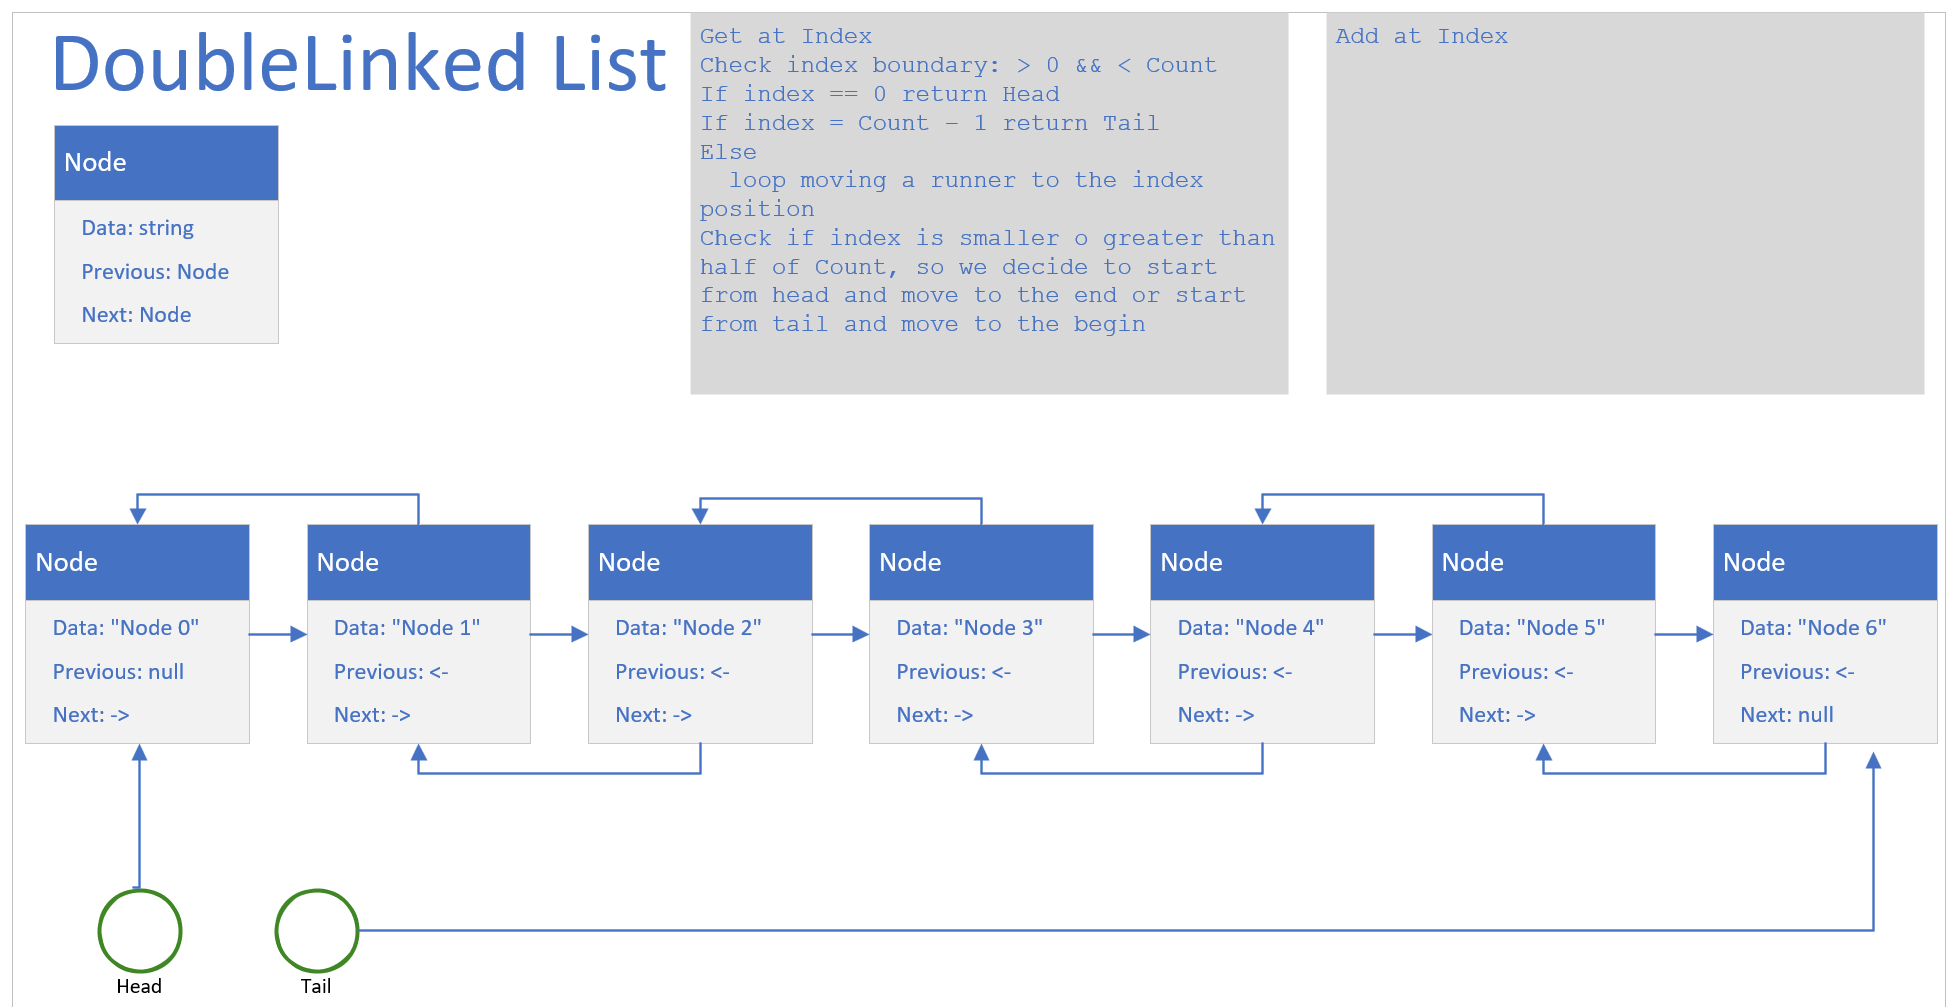
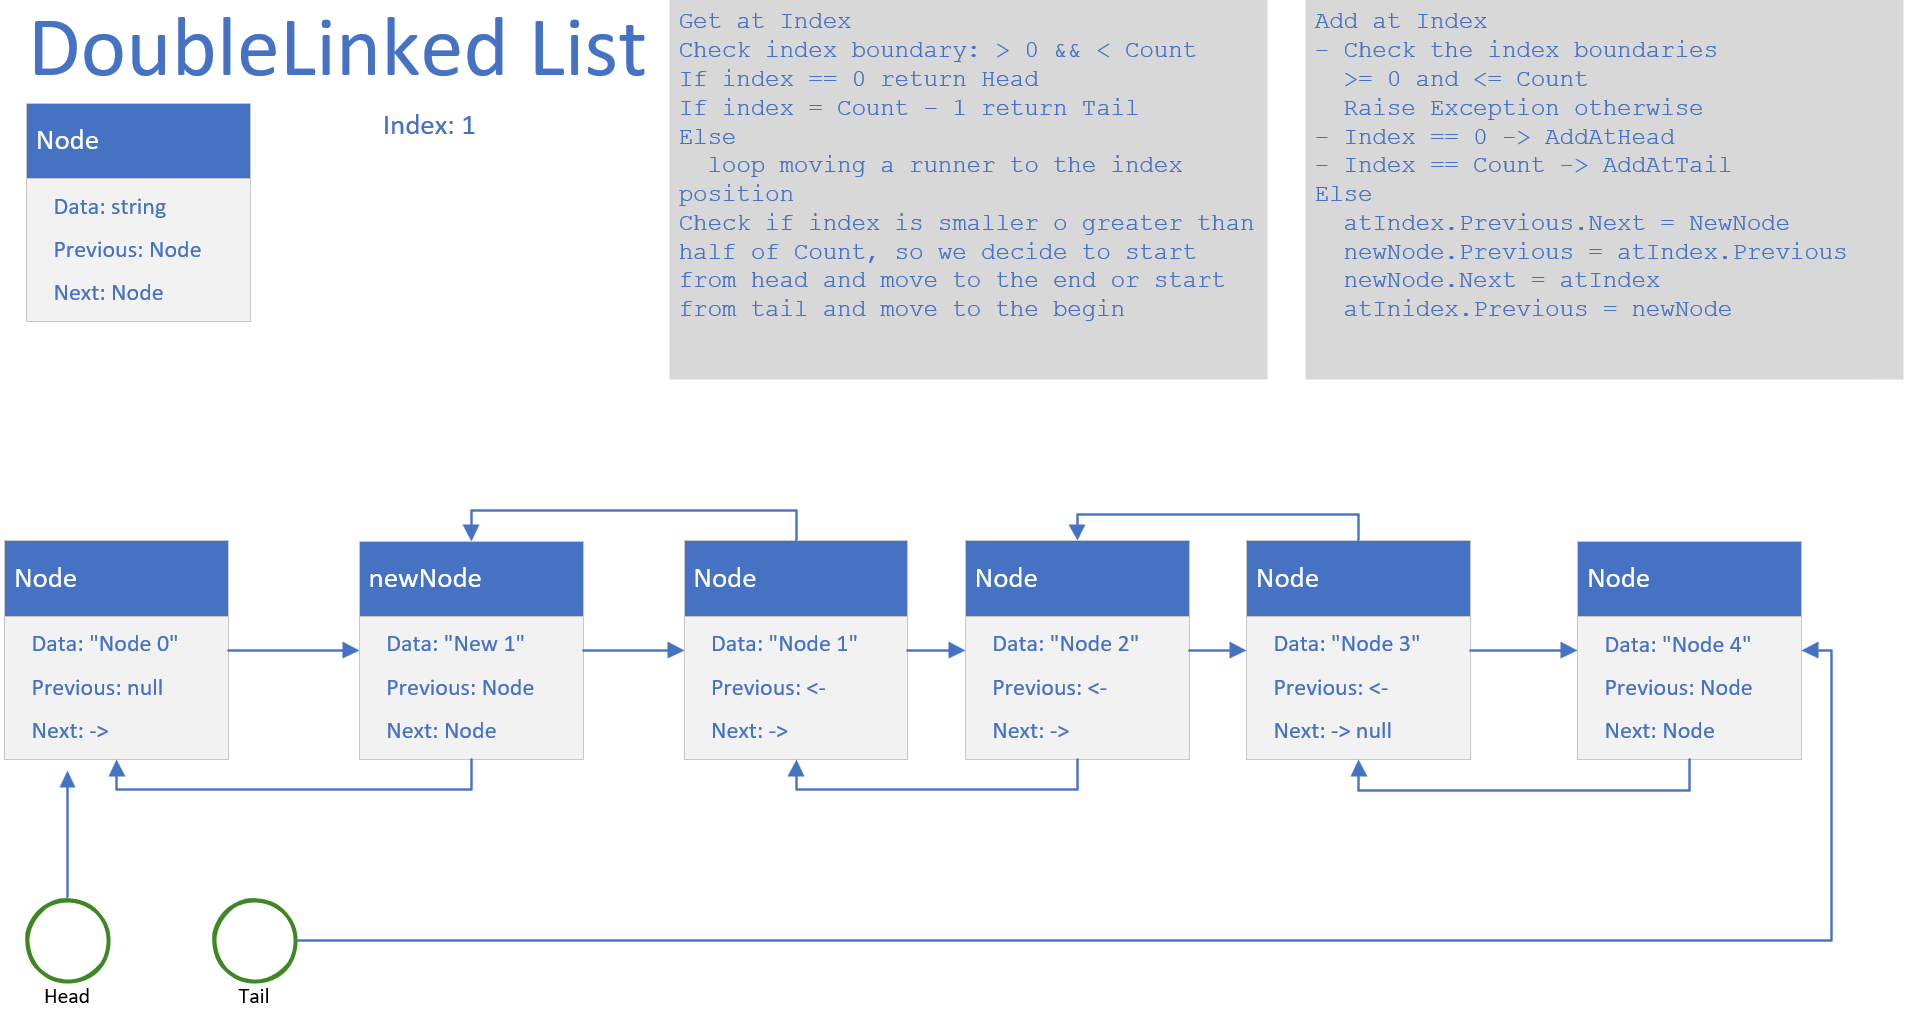
Class #153: Data Structures - Double Linked List (Part 7: Add at Index)

diff --git a/CSharpTest/_06_DoubleLinkedListTest.cs b/CSharpTest/_06_DoubleLinkedListTest.cs
@@ -123,4 +123,54 @@ public class DoubleLinkedListTests
             Assert.That(list.GetAtIndex(i).Data, Is.EqualTo($"Node {i}"));
         }
     }
+
+    [Test]
+    public void GetAtIndexTestCornerCaseWithTwoNodes()
+    {
+        var list = new DoubleLinkedList();
+        list.AddAtTail("A");
+        list.AddAtTail("B");
+        list.AddAtTail("C");
+
+        Assert.That(list.GetAtIndex(0).Data, Is.EqualTo("A"));
+        Assert.That(list.GetAtIndex(1).Data, Is.EqualTo("B"));
+        Assert.That(list.GetAtIndex(2).Data, Is.EqualTo("C"));
+    }
+
+    [Test]
+    public void AdddAtIndexTest()
+    {
+        // 0     1       2      3
+        // A <-> A2 <->  B0 <-> B
+
+        var list = new DoubleLinkedList();
+
+        list.AddAtIndex(0, "B");
+        Assert.That(list.Count, Is.EqualTo(1));
+        Assert.That(list.Head.Data, Is.EqualTo("B"));
+        Assert.That(list.Tail.Data, Is.EqualTo("B"));
+
+        list.AddAtIndex(0, "A");
+        Assert.That(list.Count, Is.EqualTo(2));
+        Assert.That(list.Head.Data, Is.EqualTo("A"));
+        Assert.That(list.Tail.Data, Is.EqualTo("B"));
+        Assert.That(list.Head.Next, Is.EqualTo(list.Tail));
+        Assert.That(list.Tail.Previous, Is.EqualTo(list.Head));
+
+        list.AddAtIndex(1, "A2");
+        Assert.That(list.Count, Is.EqualTo(3));
+        Assert.That(list.Head.Data, Is.EqualTo("A"));
+        Assert.That(list.Tail.Data, Is.EqualTo("B"));
+        Assert.That(list.GetAtIndex(1).Data, Is.EqualTo("A2"));
+
+        list.AddAtIndex(2, "B0");
+        Assert.That(list.Count, Is.EqualTo(4));
+        Assert.That(list.Head.Data, Is.EqualTo("A"));
+        Assert.That(list.Tail.Data, Is.EqualTo("B"));
+        Assert.That(list.GetAtIndex(1).Data, Is.EqualTo("A2"));
+        Assert.That(list.GetAtIndex(2).Data, Is.EqualTo("B0"));
+
+        Assert.Throws<IndexOutOfRangeException>(() => list.AddAtIndex(-1, "XXX"));
+        Assert.Throws<IndexOutOfRangeException>(() => list.AddAtIndex(20, "XXX"));
+    }
 }

diff --git a/CSharp/_14_DataStructures/_03_DoubleLinkedList.cs b/CSharp/_14_DataStructures/_03_DoubleLinkedList.cs
@@ -108,22 +108,13 @@ public class DoubleLinkedList
         else
         {
             var newNode = new Node(data);
-            Count++;
             Tail.Next = newNode;
             newNode.Previous = Tail;
             Tail = newNode;
+            Count++;
         }
     }
 
-    /*
-    Get at Index
-    Check index boundary: > 0 && < Count
-    If index == 0 return Head
-    If index = Count – 1 return Tail
-    Else
-    loop moving a runner to the index position
-    Check if index is smaller o greater than half of Count, so we decide to start from head and move to the end or start from tail and move to the begin
-    */
     public Node GetAtIndex(int index)
     {
         if (index < 0 || index >= Count)
@@ -157,5 +148,43 @@ public class DoubleLinkedList
             }
         }
         return runner;
+    }
+
+    /*
+    Add at Index
+    - Check the index boundaries
+      >= 0 and <= Count
+      Raise Exception otherwise
+    - Index == 0 -> AddAtHead
+    - Index == Count -> AddAtTail
+    Else
+      atIndex.Previous.Next = NewNode
+      newNode.Previous = atIndex.Previous
+      newNode.Next = atIndex
+      atInidex.Previous = newNode*/
+    public void AddAtIndex(int index, string data)
+    {
+        if (index < 0 || index > Count)
+        {
+            throw new IndexOutOfRangeException();
+        }
+        if (index == 0)
+        {
+            AddAtHead(data);
+        }
+        else if (index == Count)
+        {
+            AddAtTail(data);
+        }
+        else
+        {
+            var newNode = new Node(data);
+            var atIndex = GetAtIndex(index);
+            atIndex.Previous.Next = newNode;
+            newNode.Previous = atIndex.Previous;
+            newNode.Next = atIndex;
+            atIndex.Previous = newNode;
+            Count++;
+        }
     }
 }

diff --git a/README.md b/README.md
@@ -329,3 +329,6 @@
 | 148 | [Data Structures: Double Linked List <br> (Part 3: Add at Tail)](https://youtube.com/live/AsmodV305TM) | [CSharp/_14_DataStructures/_03_DoubleLinkedList.png](https://github.com/airamez/IntroToCode_CSharp01/blob/main/CSharp/_14_DataStructures/_03_DoubleLinkedList.png) <br> [CSharp/_14_DataStructures/_03_DoubleLinkedListAtHead.png](https://github.com/airamez/IntroToCode_CSharp01/blob/main/CSharp/_14_DataStructures/_03_DoubleLinkedListAtTail.png) <br> [CSharp/_14_DataStructures/_03_DoubleLinkedList.cs](https://github.com/airamez/IntroToCode_CSharp01/blob/main/CSharp/_14_DataStructures/_03_DoubleLinkedList.cs) <br> [CSharpTest/_06_DoubleLinkedListTest.cs](https://github.com/airamez/IntroToCode_CSharp01/blob/main/CSharpTest/_06_DoubleLinkedListTest.cs)|
 | 149 | [Data Structures: Double Linked List <br> (Part 4: Get At Index)](https://youtube.com/live/9pymjLA90zw) | [CSharp/_14_DataStructures/_03_DoubleLinkedList.png](https://github.com/airamez/IntroToCode_CSharp01/blob/main/CSharp/_14_DataStructures/_03_DoubleLinkedList.png) <br> [CSharp/_14_DataStructures/_03_DoubleLinkedListGetAtIndex.png](https://github.com/airamez/IntroToCode_CSharp01/blob/main/CSharp/_14_DataStructures/_03_DoubleLinkedListGetAtIndex.png) <br> [CSharp/_14_DataStructures/_03_DoubleLinkedList.cs](https://github.com/airamez/IntroToCode_CSharp01/blob/main/CSharp/_14_DataStructures/_03_DoubleLinkedList.cs) <br> [CSharpTest/_06_DoubleLinkedListTest.cs](https://github.com/airamez/IntroToCode_CSharp01/blob/main/CSharpTest/_06_DoubleLinkedListTest.cs)|
 | 150 | [Data Structures: Double Linked List <br> (Part 5: Get At Index - Performance Improvement)](https://youtube.com/live/MyfMeEp66AU) | [CSharp/_14_DataStructures/_03_DoubleLinkedList.png](https://github.com/airamez/IntroToCode_CSharp01/blob/main/CSharp/_14_DataStructures/_03_DoubleLinkedList.png) <br> [CSharp/_14_DataStructures/_03_DoubleLinkedListGetAtIndex.png](https://github.com/airamez/IntroToCode_CSharp01/blob/main/CSharp/_14_DataStructures/_03_DoubleLinkedListGetAtIndex.png) <br> [CSharp/_14_DataStructures/_03_DoubleLinkedList.cs](https://github.com/airamez/IntroToCode_CSharp01/blob/main/CSharp/_14_DataStructures/_03_DoubleLinkedList.cs) <br> [CSharpTest/_06_DoubleLinkedListTest.cs](https://github.com/airamez/IntroToCode_CSharp01/blob/main/CSharpTest/_06_DoubleLinkedListTest.cs)|
+| 151 | [Coding Interview](https://youtube.com/live/pMdm3xn4yTY)|
+| 152 | [Data Structures: Double Linked List <br> (Part 6: Add At Index)](https://youtube.com/live/dILtG7L2bV0) | [CSharp/_14_DataStructures/_03_DoubleLinkedList.png](https://github.com/airamez/IntroToCode_CSharp01/blob/main/CSharp/_14_DataStructures/_03_DoubleLinkedList.png) <br> [CSharp/_14_DataStructures/_03_DoubleLinkedListGetAtIndex.png](https://github.com/airamez/IntroToCode_CSharp01/blob/main/CSharp/_14_DataStructures/_03_DoubleLinkedListGetAtIndex.png) <br> [CSharp/_14_DataStructures/_03_DoubleLinkedList.cs](https://github.com/airamez/IntroToCode_CSharp01/blob/main/CSharp/_14_DataStructures/_03_DoubleLinkedList.cs) <br> [CSharpTest/_06_DoubleLinkedListTest.cs](https://github.com/airamez/IntroToCode_CSharp01/blob/main/CSharpTest/_06_DoubleLinkedListTest.cs)|
+| 153 | [Data Structures: Double Linked List <br> (Part 7: Add At Index)](https://youtube.com/live/P2upJvgTwq0) | [CSharp/_14_DataStructures/_03_DoubleLinkedList.png](https://github.com/airamez/IntroToCode_CSharp01/blob/main/CSharp/_14_DataStructures/_03_DoubleLinkedList.png) <br> [CSharp/_14_DataStructures/_03_DoubleLinkedListGetAtIndex.png](https://github.com/airamez/IntroToCode_CSharp01/blob/main/CSharp/_14_DataStructures/_03_DoubleLinkedListGetAtIndex.png) <br> [CSharp/_14_DataStructures/_03_DoubleLinkedList.cs](https://github.com/airamez/IntroToCode_CSharp01/blob/main/CSharp/_14_DataStructures/_03_DoubleLinkedList.cs) <br> [CSharpTest/_06_DoubleLinkedListTest.cs](https://github.com/airamez/IntroToCode_CSharp01/blob/main/CSharpTest/_06_DoubleLinkedListTest.cs)|
